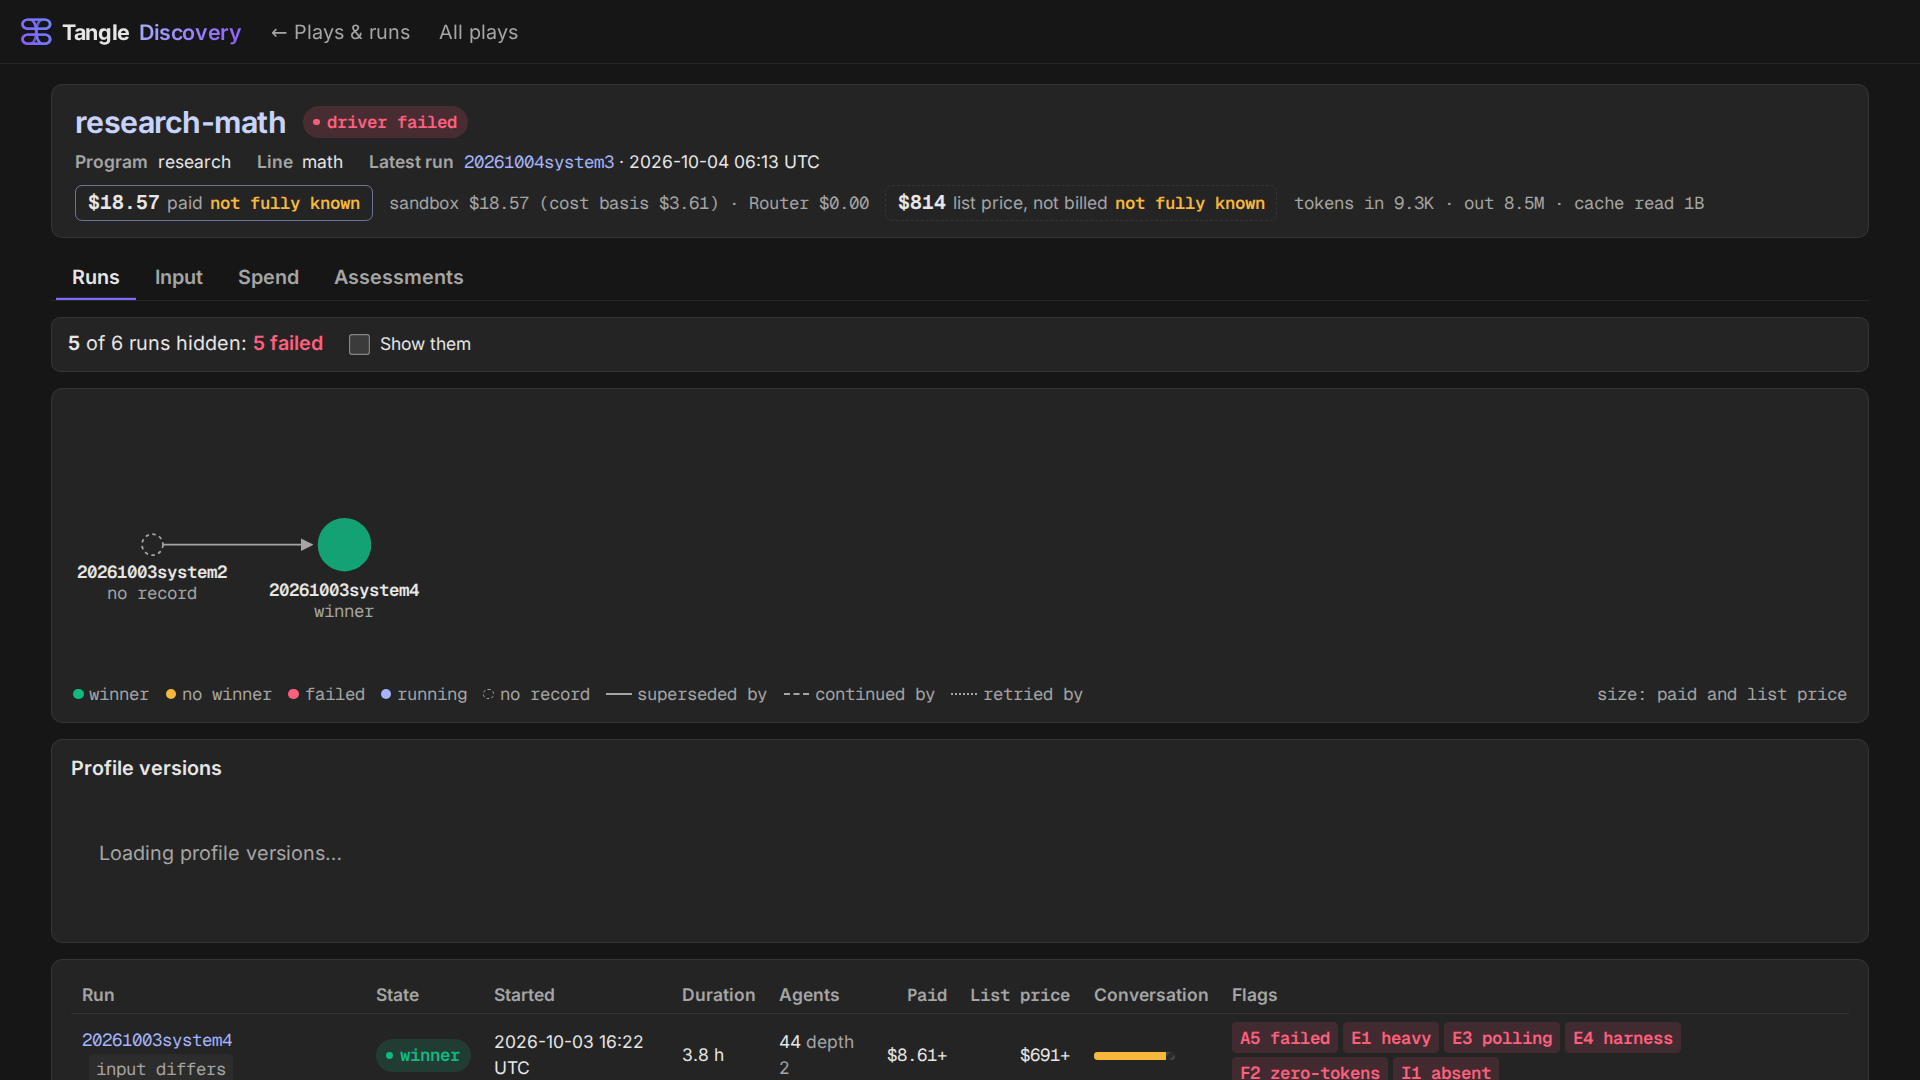
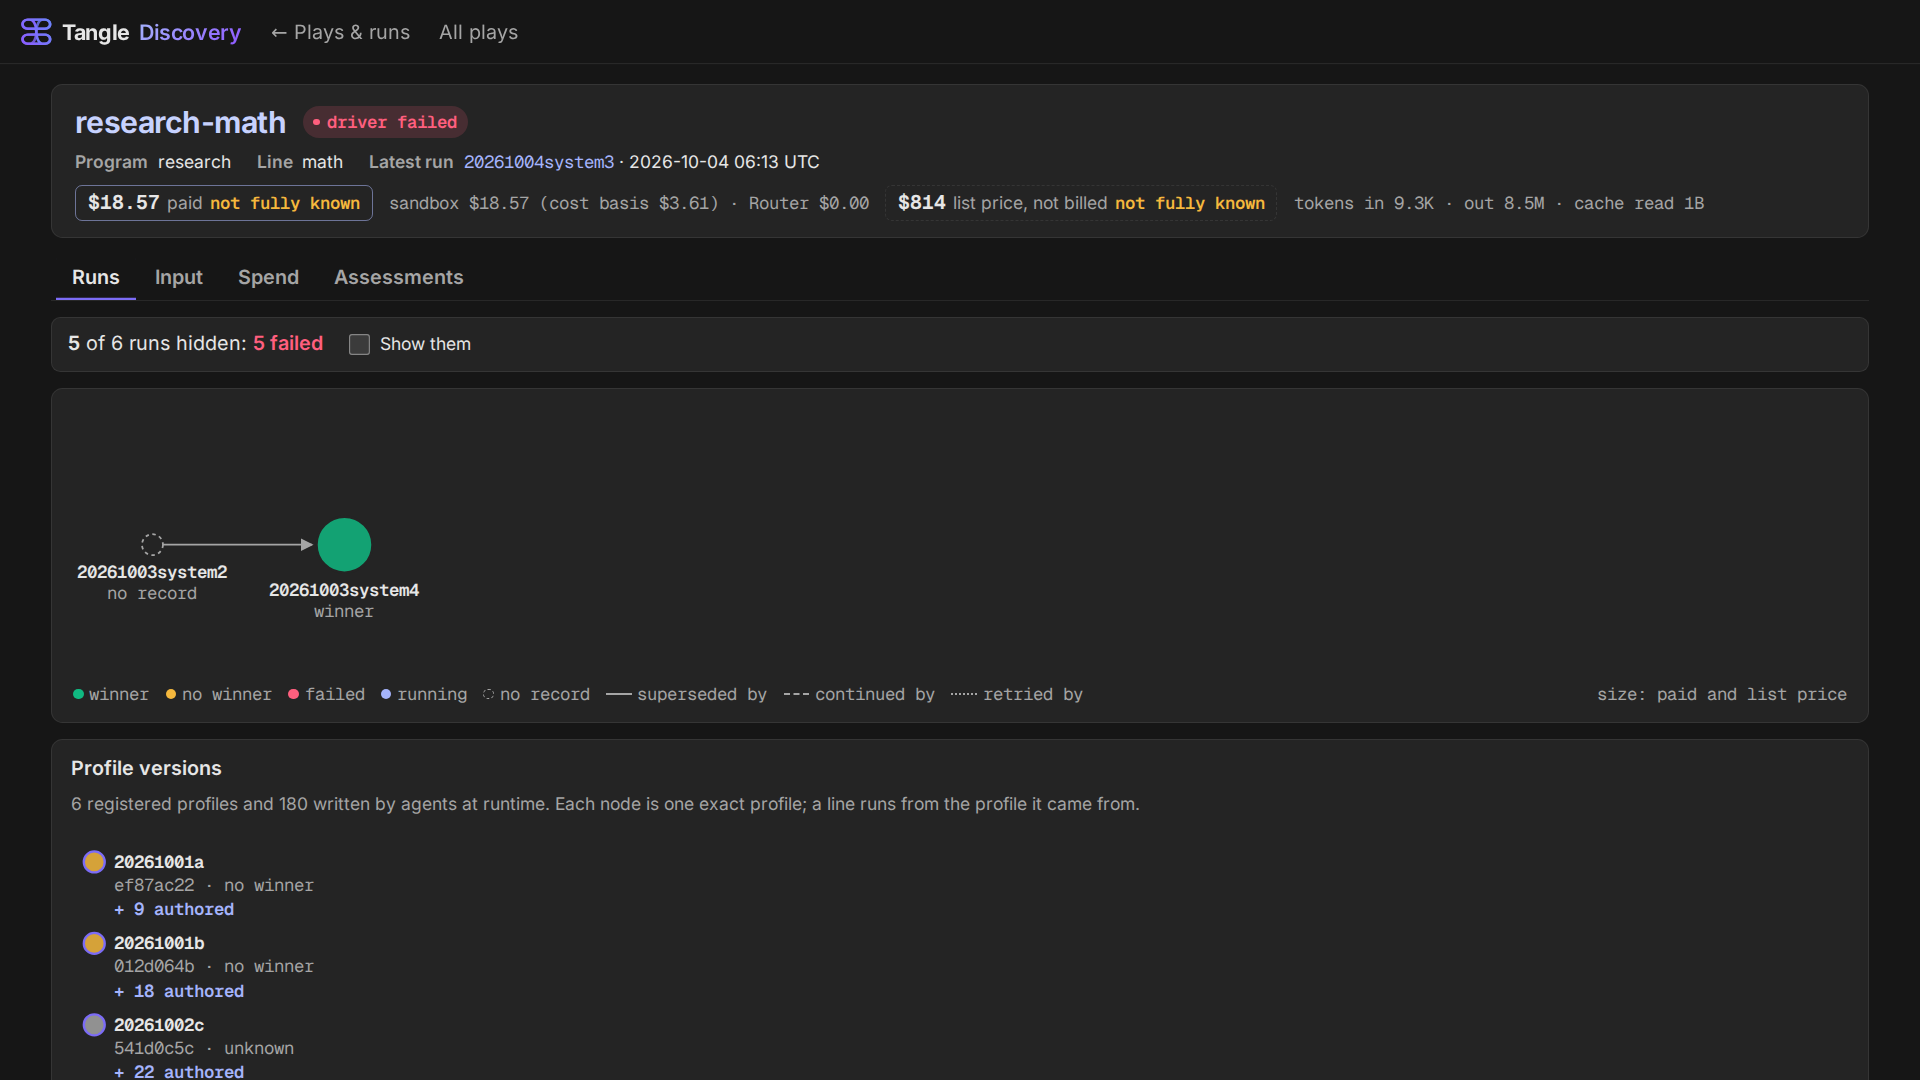
docs(evidence): the type-scale and filter after-shots from production (renderer 0.15.1)

diff --git a/docs/evidence/type-scale-filter/README.md b/docs/evidence/type-scale-filter/README.md
@@ -1,15 +1,15 @@
 # One type scale, the default filter, selections that show
 
 Before: production `drew-gtr-pro:8769`, renderer 0.13.1-41ddc5a0, 2026-10-06 00:27 UTC.
-After: the same live stores served by the tangle-tools branch with this renderer on `drew-gtr-pro:8779`, 2026-10-06 00:38 UTC.
+After: production `drew-gtr-pro:8769` after tangle-tools #668 and #669 deployed (renderer 0.15.1-031144d6), 2026-10-06 01:02 UTC.
 Both captured from beelink1-wsl with Playwright 1.63 (`evidence.mjs`) at 1920×1080 and 390×844 (device scale 2), dark theme.
 The play and run pages scale with the screen height (tangle-tools `wall-scale.js`), so 1080 px desktops show them at 1.16×.
 
 | Pair | What changed |
 | --- | --- |
-| `plays-*` | Text on the 15/17/26 px scale. 155 of 413 plays hidden by default, named by reason with failures first; runs shown "of" all. |
+| `plays-*` | Text on the 15/17/26 px scale. 157 of 412 plays hidden by default, named by reason with failures first (131 whose runs all failed); runs shown "of" all. |
 | `play-research-math-desktop` | The header keeps the true latest run (driver failed). 5 of 6 failed runs are hidden and counted; the lineage shows what is left. |
 | `play-terraform-desktop` | Sizes; no runs hidden on this play. |
-| `profile-click-desktop` | After expanding f's authored profiles and clicking director-model, its detail is beside the graph. Before, it sat at y = 1198, below the 1080 px fold. |
+| `profile-click-desktop` | After expanding f's authored profiles and clicking director-model, the profile section comes to the top with the detail, heading included, beside the graph (0.15.1). Before, the detail sat at y = 1198, below the 1080 px fold. |
 | `run-f-child-*` | Clicking a child agent selects it; graph labels are 15 px with a whole-row hit area. The run's purpose is under its title. |
 | `run-a-empty-desktop` | A root with no recorded event says what is missing instead of an empty pane: "no terminal state recorded · no usage recorded; capture missing". |
